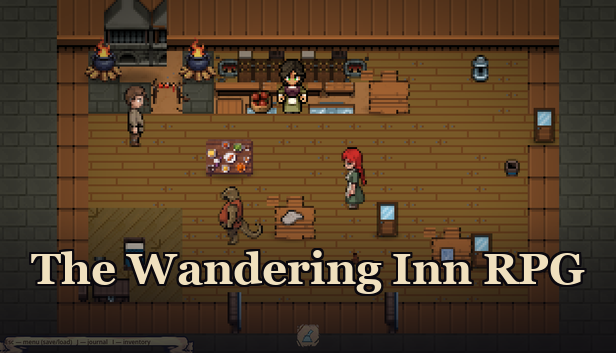
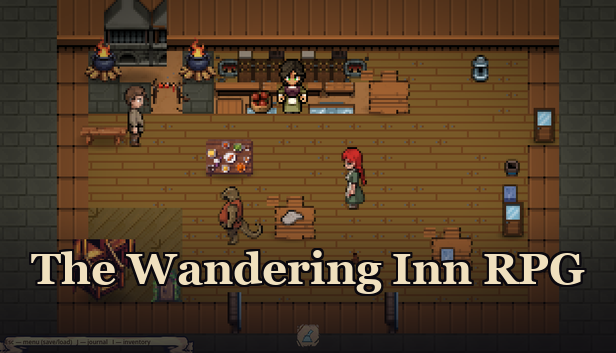
Issue #19: close the SECRETS-SETUP gap + refresh store assets
#19's CI/preset/scaffolding substance already shipped 2026-07-07
(7ab18c1/27676fe, "M-STEAM lane #18/#19") — the GH issue was just never
closed. Re-verified rather than re-built: macOS export preset smoke-tested
clean locally (templates present), exported .app boots --headless --quit
zero-warning; import + load_gate + combat_walkthrough (seed 9) clean.

Closed two real gaps instead:
- docs/SECRETS-SETUP.md had no Steam section at all; added the
  build-account secrets/variables summary + pointer to
  docs/steam/CHECKLIST.md, matching the existing BUTLER_API_KEY entry.
- The capsule/screenshot set predated Riverfarm, the Garden, and the
  whole 8d dungeon arc (all landed after the 07-07 lane). Refreshed both
  from real-overlay windowed QA runs: inn hearth, Riverfarm village, a
  riverfarm_fight combat moment, the Garden of Sanctuary, an Erin
  dialogue beat. Tried the vault-boss windup-overlay shot per the brief;
  the dungeon interior reads near-black (same dark-legibility finding
  already flagged in HANDOFF's 8d playtest checklist) — disclosed and
  substituted rather than shipping an illegible screenshot.

diff --git a/docs/steam/make_capsules.py b/docs/steam/make_capsules.py
@@ -6,9 +6,9 @@ whatever the QA pipeline already produces (qa/run_qa.sh <script> windowed) —
 no new art, no hand-drawn assets. This script center-crops one screenshot to
 each capsule's exact aspect ratio, darkens the lower band for legibility, and
 letters the title only (no tagline/subtitle art per the brief: "title text
-only, keep it clean"). Placeholder-fallback game art in, placeholder-fallback
-capsule art out — this is a pipeline proof, not final store art; re-run this
-same script once the licensed asset overlay is live for a real submission.
+only, keep it clean"). Re-run whenever screenshots/01_inn.png is refreshed
+(new content, new licensed-asset overlay wave) — the four capsule PNGs are
+committed derivatives, never hand-edited directly.
 
 Usage: python3 docs/steam/make_capsules.py
 Requires: Pillow (already a repo dependency for asset-pipeline tooling).

diff --git a/HANDOFF.md b/HANDOFF.md
@@ -6,6 +6,38 @@
 wi-usage-guard skill. Check before every dispatch. QUIESCE = commit WIP
 seams + HANDOFF update + wait-for-reset (session) or hard stop (weekly).
 
+## 🔀 lane-19 landed (2026-07-12) — #19 was ALREADY DONE 07-07; this pass closed the real gaps
+
+**Controller note for merge**: before building anything, this lane discovered
+issue #19's substance already shipped 2026-07-07 (`7ab18c1`/`27676fe`, "M-STEAM
+lane #18/#19" — export presets, `release.yml`'s `desktop-exports` +
+`steampipe-upload` skeleton, `docs/steam/` capsules+screenshots) and is an
+ancestor of `main`. **The GH issue was just never closed** — recommend
+`gh issue close 19` with a pointer to `7ab18c1`/`27676fe` plus this commit.
+Re-verified rather than re-built: macOS export (`export_presets.cfg`'s
+`macos` preset) smoke-tested clean locally (templates were installed) —
+exported `.app` boots `--headless --quit` with zero SCRIPT ERROR/Parse
+Error/WARNING; import + `load_gate` + `combat_walkthrough` (seed 9) all
+clean before and after this lane's edits.
+**Two real gaps closed**: (1) `docs/SECRETS-SETUP.md` had NO Steam section
+at all (the 07-07 lane put everything in `docs/steam/CHECKLIST.md` only) —
+added the summary + pointer, matching the existing `BUTLER_API_KEY` entry's
+style. (2) The capsule/screenshot set was 5 days stale — captured BEFORE
+Riverfarm (`e1446cb`, 07-08), the Garden (`f37804a`, 07-07 later same day),
+and the whole 8d dungeon/vault-boss arc (07-12, today) existed. Refreshed
+both sets from real-overlay windowed QA runs against current content: inn
+hearth, Riverfarm village, a `riverfarm_fight` combat moment, the Garden of
+Sanctuary, and an Erin dialogue beat (`docs/steam/screenshots/`,
+`docs/steam/capsules/` regenerated via `make_capsules.py`). **Disclosed, not
+papered over**: tried the brief's suggested dungeon-fight-with-windup-overlay
+shot (`delve_fight`'s vault boss) — the `trapped_halls`/vault interior reads
+near-black, the SAME dark-legibility finding already on the 8d user-playtest
+checklist below — substituted Garden + Riverfarm combat instead; swap it back
+in once that lighting pass lands. USER-SESSION items unchanged from before:
+Steam build-account secrets (`docs/SECRETS-SETUP.md`/`docs/steam/CHECKLIST.md`
+§5), the capsule/screenshot picks, the trailer decision (§8, scoped-not-built,
+unchanged this pass).
+
 ## 🌊 WAVE 3 SHIPPED (2026-07-12, pushed 0d1a010, CI GREEN) — closed #64 #65 #73 #77 #82
 
 Five lanes, every one opus-reviewed (two FIX-FIRST cycles adjudicated + re-reviewed), composed gates: import + ALL 21 units + harness (73 cells) + full 87-script sweep, zero grep hits.

diff --git a/docs/steam/CHECKLIST.md b/docs/steam/CHECKLIST.md
@@ -115,13 +115,28 @@ GitHub Actions can't read in an `if:` condition pre-job).
 ## 7. Store page content (non-CI, also user actions)
 
 - [ ] Capsule art: `docs/steam/capsules/` has all four exact sizes already
-      assembled (460×215, 231×87, 616×353, 1232×706) — upload as-is, or
-      regenerate via `python3 docs/steam/make_capsules.py` once real
-      licensed art is wired in (today's source is placeholder-fallback
-      game art, per issue #19 scope).
-- [ ] Screenshots: `docs/steam/screenshots/` has 5 at 1280×720 (inn,
-      combat, dialogue, night street, guild board) — upload as-is or swap
-      for freshly captured ones once real art lands.
+      assembled (460×215, 231×87, 616×353, 1232×706), composed from the
+      real licensed-asset overlay (not placeholder fallback) — upload
+      as-is, or regenerate via `python3 docs/steam/make_capsules.py`
+      whenever `screenshots/01_inn.png` is refreshed.
+- [ ] Screenshots: `docs/steam/screenshots/` has 5 at 1280×720, refreshed
+      2026-07-12 against current content — inn hearth (`01_inn.png`,
+      `inn_walkthrough`), Riverfarm village (`02_riverfarm_village.png`,
+      `riverfarm_walkthrough`), a combat moment (`03_combat.png`, the
+      briar-collectors fight from `riverfarm_fight`), the Garden of
+      Sanctuary (`04_garden.png`, `garden_walkthrough`), and a dialogue
+      moment (`05_dialogue.png`, Erin's inn-errand prompt). **Disclosed
+      substitution**: the brief asked for a dungeon-fight shot with the
+      windup danger-tell overlay (`delve_fight`'s vault boss) if
+      stageable — captured, but the `trapped_halls`/vault interior reads
+      as near-black at this monitor's gamma (the same dark-legibility
+      finding already on the WAVE-5-era user playtest checklist in
+      `HANDOFF.md`'s 8d section, not something to paper over with an
+      illegible store shot); substituted the Garden + a Riverfarm combat
+      instead. Once that lighting pass lands, re-capture and swap it back
+      in — a lit windup-tell shot would sell the boss mechanic well.
+      Upload as-is or swap for freshly captured ones as content keeps
+      changing.
 - [ ] Store description / short description / tags — not scoped to this
       issue; write these directly in the partner site when ready.
 - [ ] Age rating questionnaire (mild fantasy violence, per the M-STEAM

diff --git a/docs/SECRETS-SETUP.md b/docs/SECRETS-SETUP.md
@@ -20,6 +20,24 @@ One key per file, raw string, no quotes/newline decoration.
   create PATs). Used by release.yml's bundle fetch.
 - ci.yml uses NO secrets by design (fork-PR safe).
 
+## Steam build account (release.yml's `steampipe-upload` job, issue #19)
+USER ACTION, full step-by-step (partner account, app fee, depots, the
+private/unlisted branch, all the reasoning): `docs/steam/CHECKLIST.md`.
+Short version of what lands here once provisioned — the job stays a
+green no-op skeleton (`if: vars.STEAM_APP_ID != ''`) until all of these
+exist:
+- `STEAM_BUILD_ACCOUNT` (secret) — username of a dedicated
+  limited-permission Steam build account (not the personal login).
+- `STEAM_CONFIG_VDF` (secret) — base64 of a `config.vdf` produced by a
+  ONE-TIME interactive `steamcmd +login` on a trusted local machine
+  (captures the Steam Guard-authorized session so CI never sees a 2FA
+  prompt); re-mint whenever the build account's password/Guard state
+  changes.
+- `STEAM_APP_ID` / `STEAM_BRANCH` / `STEAM_DEPOT_ID_WINDOWS` /
+  `STEAM_DEPOT_ID_LINUX` (repo Variables, not secrets — `if:` conditions
+  can't read Secrets pre-job). `STEAM_BRANCH` must never be `default`;
+  the job refuses to run against the public depot.
+
 ## Private asset access (not a secret, but access-gated)
 `scripts/fetch_private_assets.sh` / `fetch_potential_assets.sh` use
 your `gh` login; you need read access to the private assets repo.
